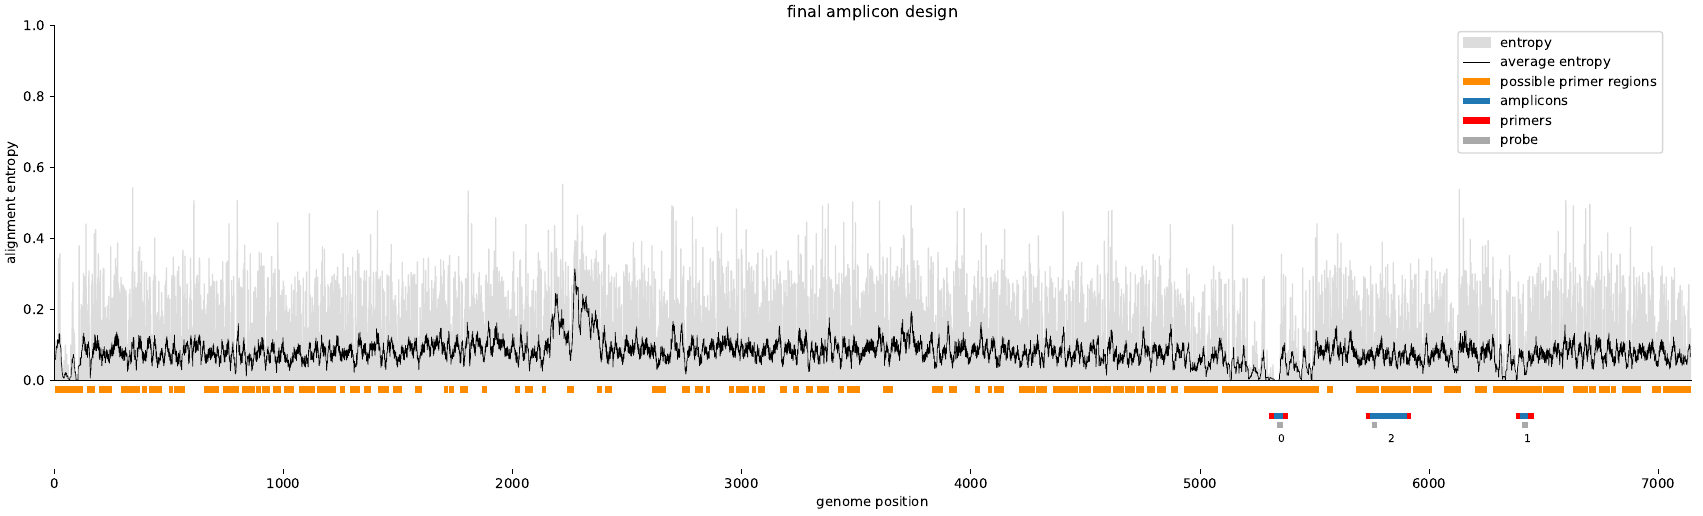
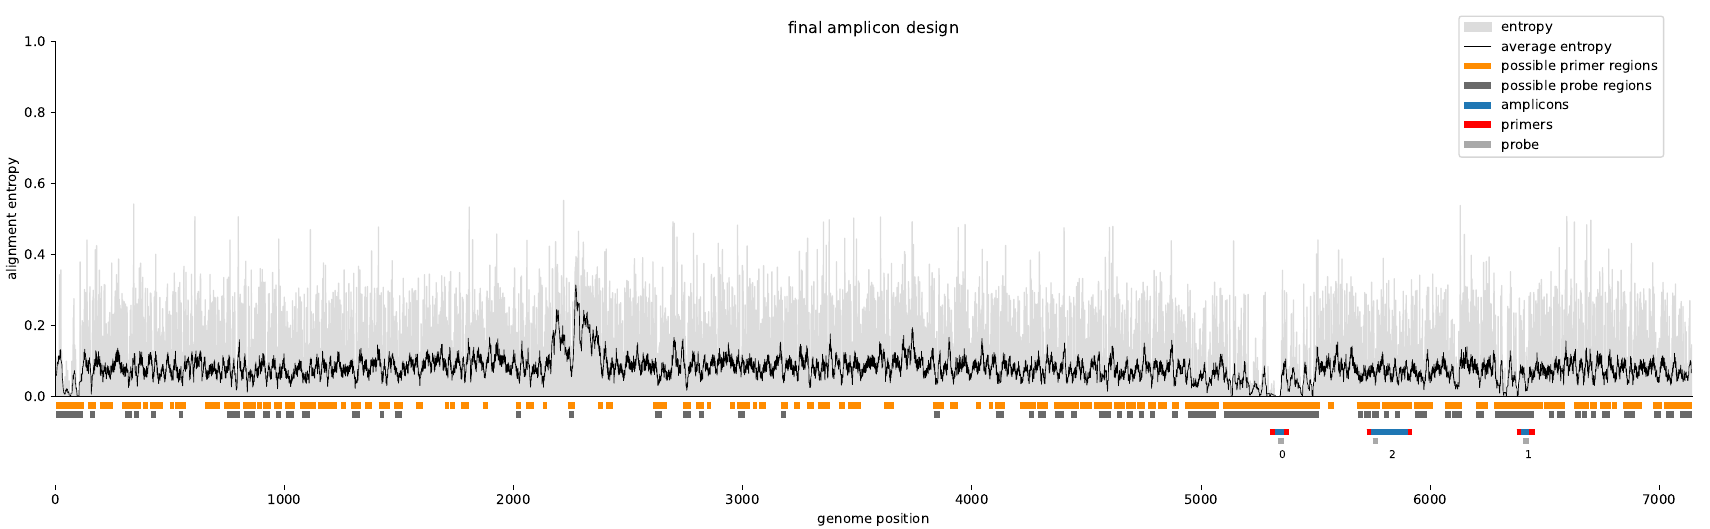
update plots

diff --git a/varvamp/scripts/reporting.py b/varvamp/scripts/reporting.py
@@ -473,7 +473,7 @@ def varvamp_plot(dir, alignment_cleaned, primer_regions, all_primers=None, ampli
     region_subplot(ax, primer_regions)
     # probe region plot for probes
     if probe_regions is not None and amplicon_scheme is not None:
-        region_subplot(ax, probe_conserved_regions, 0.9, color="dimgrey", description="possible probe regions")
+        region_subplot(ax, probe_regions, 0.9, color="dimgrey", description="possible probe regions")
         qpcr_subplot(ax, amplicon_scheme)
     # all primer plot
     elif all_primers is not None and amplicon_scheme is not None:
